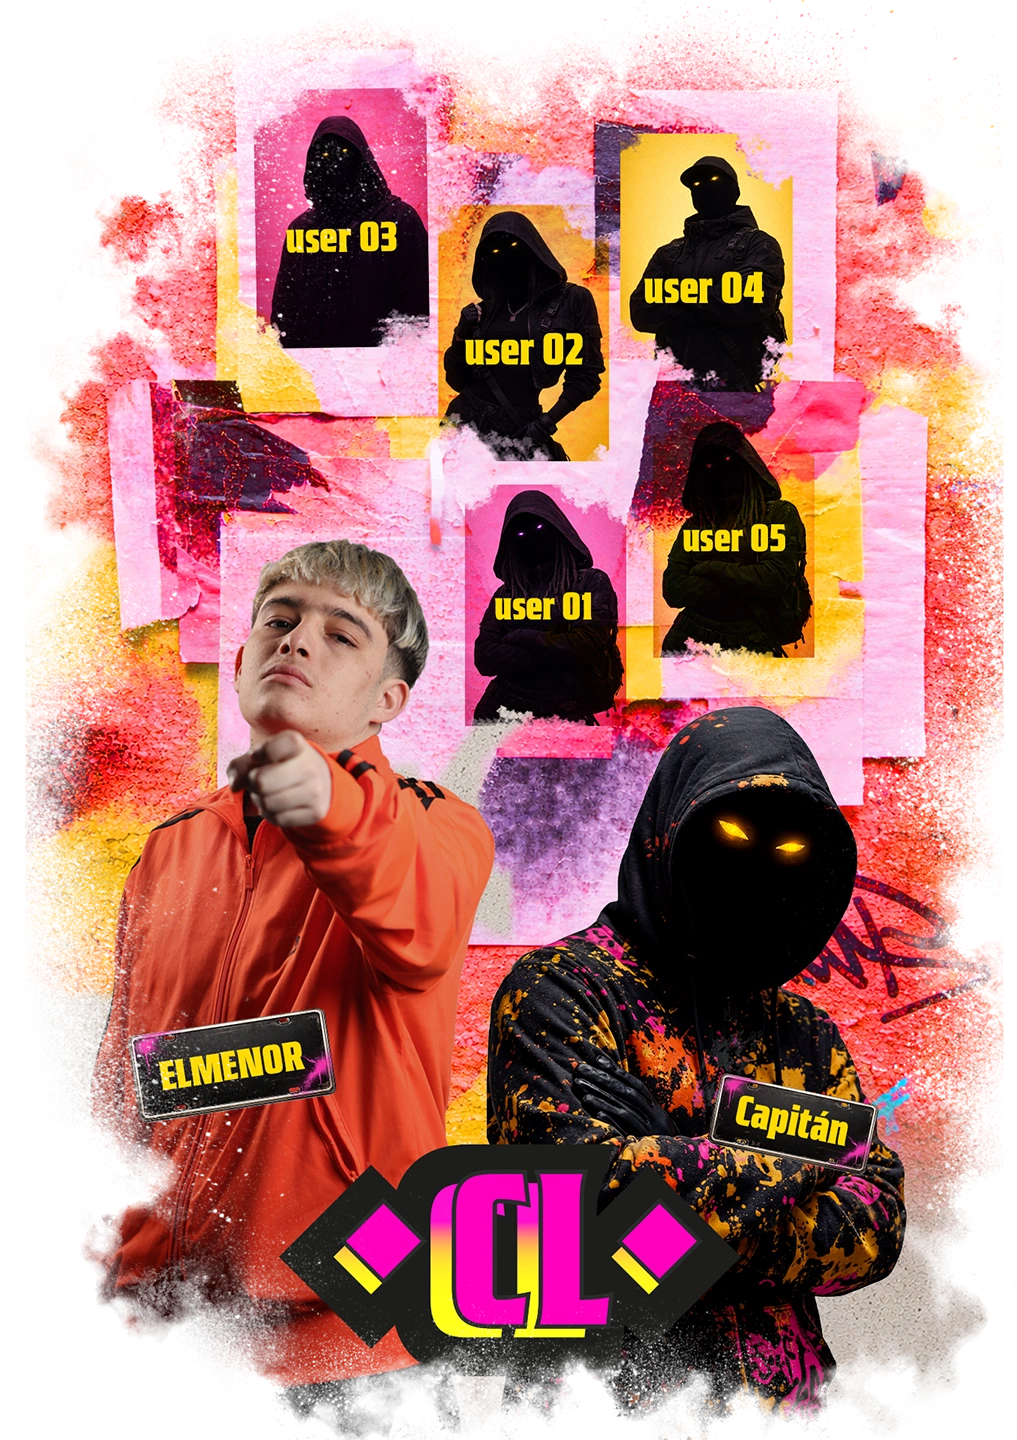
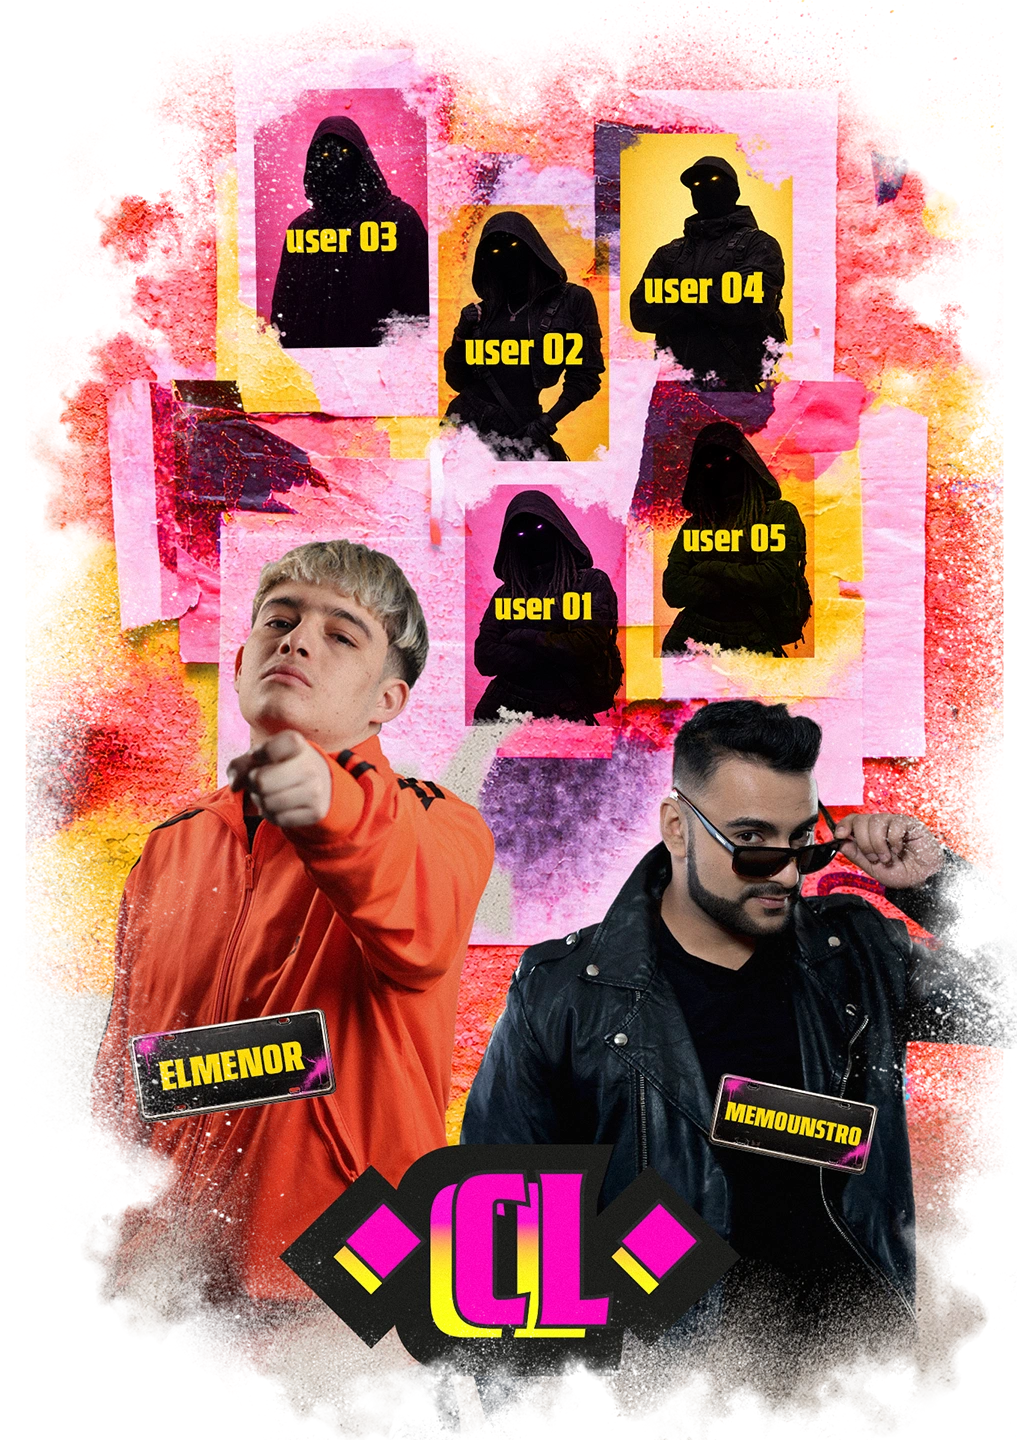
Rules

Changed region(s): [[0.4572, 0.4688, 1.0, 1.0], [0.0914, 0.7812, 0.4267, 1.0], [0.4572, 0.9375, 0.5487, 1.0]]

diff --git a/src/components/HomePage/MainHost.js b/src/components/HomePage/MainHost.js
@@ -16,11 +16,11 @@ import postermobil5 from "../../assets/posters/5_Poster PE_EC.webp";
 import postermobil6 from "../../assets/posters/6_host_and-main.webp";
 import postermobil7 from "../../assets/posters/7_HostMov.webp";
 
-import posterdesktop1 from "../../assets/desktop/PostersPais/1_Poster MX_ACZINO.webp";
-import posterdesktop2 from "../../assets/desktop/PostersPais/2_Poster COL_Marithea.webp";
-import posterdesktop3 from "../../assets/desktop/PostersPais/3_Poster ARG_Stuart.webp";
-import posterdesktop4 from "../../assets/desktop/PostersPais/4_Poster CL_ElMenor.webp";
-import posterdesktop5 from "../../assets/desktop/PostersPais/5_Poster PE_EC_Nekroos.webp";
+import posterdesktop1 from "../../assets/desktop/PostersPais/1_Poster MX_AC.webp";
+import posterdesktop2 from "../../assets/desktop/PostersPais/2_Poster COL_MP.webp";
+import posterdesktop3 from "../../assets/desktop/PostersPais/3_Poster ARG_SS.webp";
+import posterdesktop4 from "../../assets/desktop/PostersPais/4_Poster CL_EMpng.webp";
+import posterdesktop5 from "../../assets/desktop/PostersPais/5_Poster PE_EC_NB.webp";
 import posterdesktop6 from "../../assets/desktop/PostersPais/6_Caster.webp";
 import posterdesktop7 from "../../assets/desktop/PostersPais/7_Host.webp";
 

diff --git a/src/components/HomePage/Register.js b/src/components/HomePage/Register.js
@@ -3,7 +3,9 @@ import "./Register.css";
 import fondo from "../../assets/registration/Button_Continuar.webp";
 import highlight from "../../assets/desktop/Header/Spray_graffbutton.webp"
 import { useNavigate } from "react-router";
+import { useViewport } from "../../context/ViewportContext";
 const Footer = () => {
+  const { isMobile } = useViewport();
   const navigate = useNavigate();
   const [isFooterVisible, setIsFooterVisible] = useState(false);
 
@@ -60,8 +62,8 @@ const Footer = () => {
       >
         <img loading="lazy" src={fondo} alt="volver arriba" className="register-image"/>
         <img loading="lazy" src={highlight} alt="" className="register-highlight"/>
-        <p className="guild-font register-text">VOLVER</p>
-        <p className="guild-font register-text">ARRIBA</p>
+        <p className="guild-font register-text" style={{left: isMobile ? "27.5px" : "-65px"}}>VOLVER</p>
+        <p className="guild-font register-text" style={{left: isMobile ? "27.5px" : "-65px"}}>ARRIBA</p>
       </div>
     </>
   );

diff --git a/src/components/HomePage/Footer.js b/src/components/HomePage/Footer.js
@@ -34,7 +34,7 @@ const Footer = () => {
           <button className="footer-link-btn" onClick={() => navigate("/faqs")}>Preguntas frecuentes</button>
           <button className="footer-link-btn" onClick={() => navigate("/terms")} >Términos y condiciones</button>
           <button className="footer-link-btn" onClick={() => navigate("/privacy")}>Política de privacidad</button>
-          
+          <button className="footer-link-btn" onClick={() => navigate("/rules")}>Reglamento</button>
         </div>
         <div style={{minHeight: "10px"}}></div>
         <p className="footer-text">©/TM/®2026 Activision Publishing, Inc. </p>

diff --git a/src/pages/RulesPage.js b/src/pages/RulesPage.js
@@ -439,7 +439,7 @@ Experiencia del público
             {termsText}
           </pre>
 
-          <div style={{width: "100%", display: "flex", justifyContent: "center"}}><img src={table} alt="Table" /></div>
+          <div style={{width: "100%", display: "flex", justifyContent: "center", marginBottom: "20px",}}><img src={table} alt="Table" /></div>
 
           <pre
             style={{
